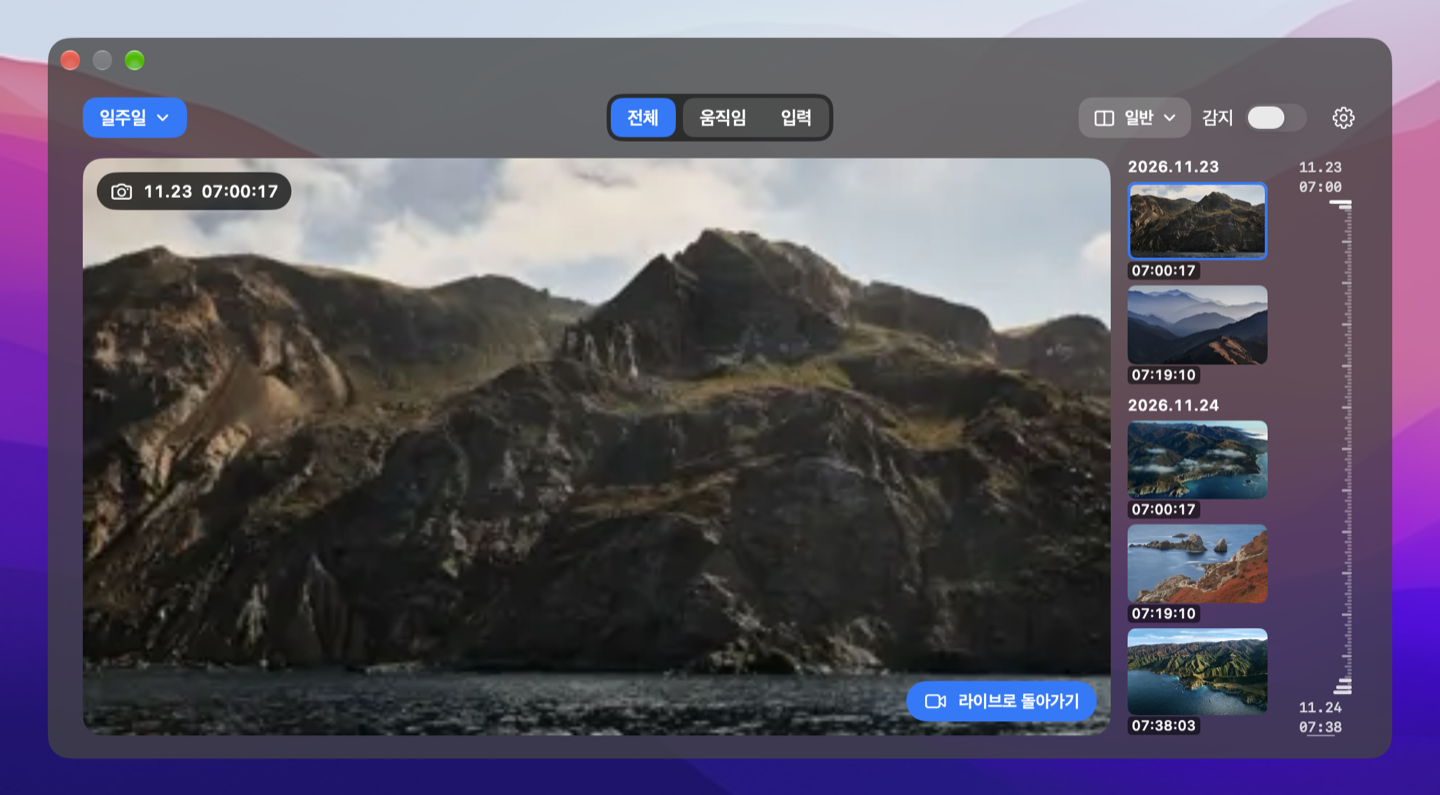
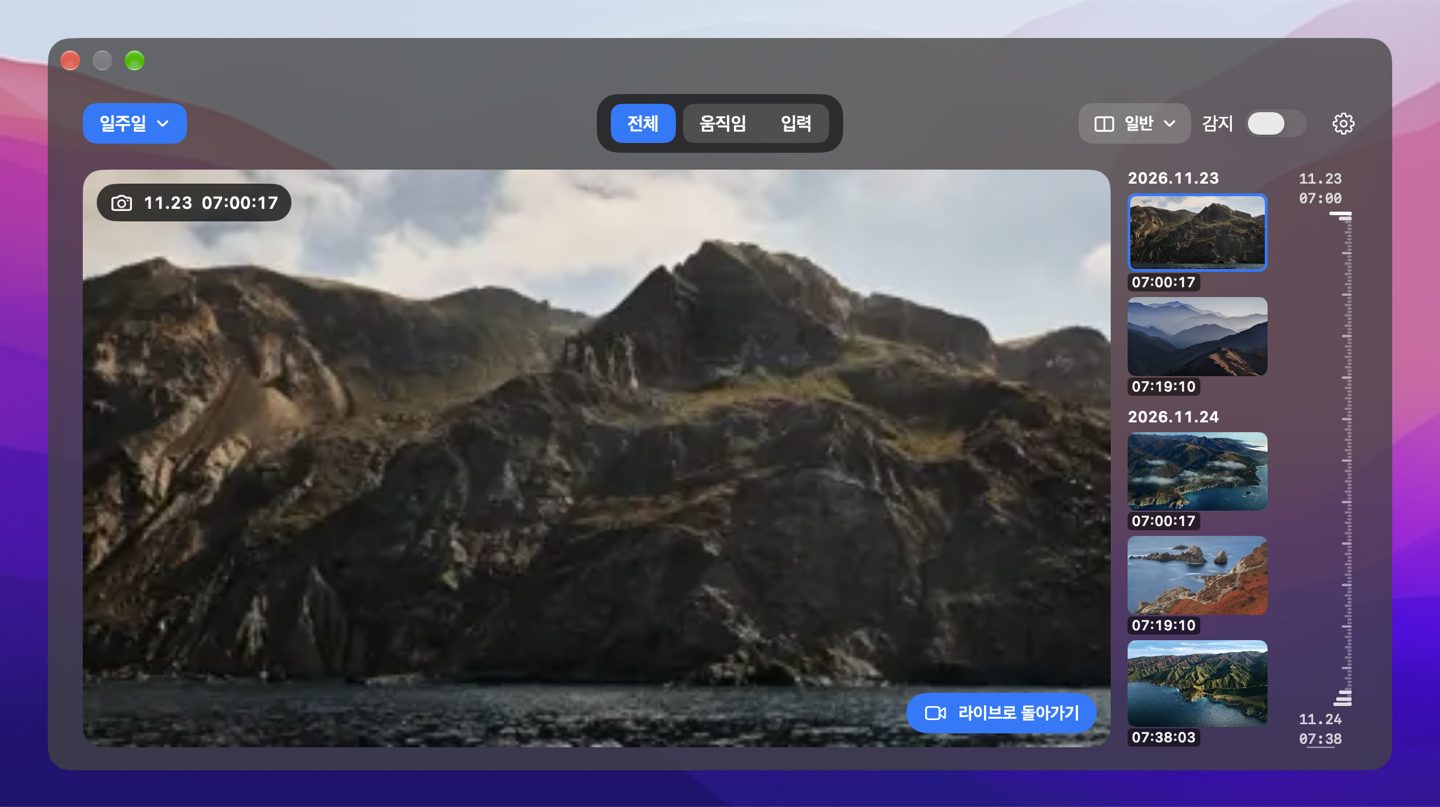
자리기록 0.3.5 상단 필터를 감싸는 여백 확대

diff --git a/Sources/ArchiveStyle.swift b/Sources/ArchiveStyle.swift
@@ -28,6 +28,9 @@ enum GalleryMode: String, CaseIterable {
 enum GalleryLayout {
     static let inset: CGFloat = 25
     static let gap: CGFloat = 12
+    static let filterButtonHeight: CGFloat = 28
+    static let filterVerticalInset: CGFloat = 7
+    static let filterHeight = filterButtonHeight + 2 * filterVerticalInset
     static let photoSize = CGSize(width: 132, height: 87)
     static func standardThumbnailWidth(in contentWidth: CGFloat) -> CGFloat {
         let fullWidth = max(165, (contentWidth - 74) * 0.36)
@@ -41,11 +44,11 @@ enum GalleryLayout {
     static func standardOpeningHeight(windowWidth: CGFloat) -> CGFloat {
         let contentWidth = windowWidth - inset * 2
         let viewerWidth = contentWidth - standardThumbnailWidth(in: contentWidth) - standardRulerWidth - gap * 2
-        return max(350, ceil(viewerWidth / defaultVideoAspect) + 8 + 34 + gap + standardBottomInset)
+        return max(350, ceil(viewerWidth / defaultVideoAspect) + 8 + filterHeight + gap + standardBottomInset)
     }
 
     static let rulerHeight: CGFloat = 31
     static let clockHeight: CGFloat = 13
-    // Header (8+34), two gaps, photo, ruler, clock spacing and bottom inset.
-    static let minimumHeight = 8 + 34 + gap * 2 + photoSize.height + rulerHeight + 3 + clockHeight + 12
+    // Header, two gaps, photo, ruler, clock spacing and bottom inset.
+    static let minimumHeight = 8 + filterHeight + gap * 2 + photoSize.height + rulerHeight + 3 + clockHeight + 12
 }

diff --git a/Sources/LibraryView.swift b/Sources/LibraryView.swift
@@ -72,7 +72,9 @@ struct LibraryView: View {
                         chip("입력", leading: 0, trailing: 8, selected: kind == .screen) { kind = .screen }
                     }
                 }
-                .padding(3).background(.black.opacity(0.56), in: RoundedRectangle(cornerRadius: 11))
+                .padding(.horizontal, 10)
+                .padding(.vertical, GalleryLayout.filterVerticalInset)
+                .background(.black.opacity(0.56), in: RoundedRectangle(cornerRadius: 15))
             }
             .padding(.horizontal, GalleryLayout.inset).padding(.top, 8).padding(.bottom, GalleryLayout.gap)
             if let notice = model.notice {
@@ -125,7 +127,7 @@ struct LibraryView: View {
     private func chip(_ title: String, leading: CGFloat, trailing: CGFloat, selected: Bool, action: @escaping () -> Void) -> some View {
         Button(action: action) {
             Text(title).font(.system(size: 13, weight: .semibold))
-                .fixedSize().padding(.horizontal, 12).frame(height: 28)
+                .fixedSize().padding(.horizontal, 12).frame(height: GalleryLayout.filterButtonHeight)
                 .background(selected ? GlassInk.blue : GlassInk.capsule, in: UnevenRoundedRectangle(
                     topLeadingRadius: leading, bottomLeadingRadius: leading,
                     bottomTrailingRadius: trailing, topTrailingRadius: trailing))

diff --git a/README.md b/README.md
@@ -4,7 +4,7 @@
 
 **macOS 14 이상 · Apple Silicon 및 Intel 지원**
 
-[자리기록 0.3.4 설치 파일 받기](https://github.com/sundaynighttt/desk-trace/releases/download/v0.3.4/DeskTrace-0.3.4.dmg) · [릴리스 기록](https://github.com/sundaynighttt/desk-trace/releases)
+[자리기록 0.3.5 설치 파일 받기](https://github.com/sundaynighttt/desk-trace/releases/download/v0.3.5/DeskTrace-0.3.5.dmg) · [릴리스 기록](https://github.com/sundaynighttt/desk-trace/releases)
 
 ![시험용 사진으로 본 일반 모드. 왼쪽에 선택한 사진이 크게 보이고 오른쪽에 촬영 시각이 표시된 목록과 세로 시간 눈금이 있습니다.](docs/gallery.png)
 
@@ -33,7 +33,7 @@
 
 일반 모드의 오른쪽 저장 사진은 같은 창에서 0.3.0 사진 폭의 1/3에 가장 가까운 짝수 포인트로 표시합니다. 사진 높이는 저장된 원본의 가로·세로 비율에 맞춥니다. 960포인트 창에서 폭은 100포인트이고, 16:9 사진의 높이는 약 56포인트, 정사각형 사진은 100포인트입니다. 날짜는 맥의 현지 날짜별 묶음 맨 위에 한 번 표시합니다. 각 사진 바로 아래에는 촬영 시각(시:분:초)만 한 줄로 두고, 같은 날의 기록 사이에는 4포인트 간격을 둡니다.
 
-가운데 필터는 더 어두운 배경 하나로 감쌉니다. 전체 버튼 옆에 움직임과 입력을 차례로 붙입니다. 움직임의 왼쪽 위·아래, 입력의 오른쪽 위·아래를 둥글게 하고 가운데 맞닿는 모서리는 직각으로 연결합니다. 미니 모드의 기본 창에는 약 7장의 사진이 보입니다. 상단 버튼과 사진, 사진과 물결 눈금 영역 사이의 간격은 각각 12포인트입니다. 사진 줄과 시간 눈금의 좌우 여백은 상단과 같은 25포인트입니다. 지난번 창을 높게 늘려 두었어도 다음 실행에서는 한 줄 높이로 시작하며, 연 뒤에는 크기를 조절할 수 있습니다. 기간 버튼 왼쪽과 설정 버튼 오른쪽에 같은 여백을 둡니다. 배경은 어두운 반투명이고, 선택한 필터는 파란색, 나머지는 반투명 회색입니다. 시스템에서 투명도 줄이기를 켜면 단색 배경을 사용하고, 동작 줄이기를 켜면 시간 눈금의 물결 높이를 고정합니다. 빈 목록, 필터 결과 없음, 한 장, 같은 시각의 여러 기록을 모두 지원합니다.
+가운데 필터의 어두운 배경에는 버튼 바깥으로 좌우 각각 10포인트, 위아래 각각 7포인트의 여백을 둡니다. 전체 버튼 옆에 움직임과 입력을 차례로 붙입니다. 움직임의 왼쪽 위·아래, 입력의 오른쪽 위·아래를 둥글게 하고 가운데 맞닿는 모서리는 직각으로 연결합니다. 미니 모드의 기본 창에는 약 7장의 사진이 보입니다. 상단 버튼과 사진, 사진과 물결 눈금 영역 사이의 간격은 각각 12포인트입니다. 사진 줄과 시간 눈금의 좌우 여백은 상단과 같은 25포인트입니다. 지난번 창을 높게 늘려 두었어도 다음 실행에서는 한 줄 높이로 시작하며, 연 뒤에는 크기를 조절할 수 있습니다. 기간 버튼 왼쪽과 설정 버튼 오른쪽에 같은 여백을 둡니다. 배경은 어두운 반투명이고, 선택한 필터는 파란색, 나머지는 반투명 회색입니다. 시스템에서 투명도 줄이기를 켜면 단색 배경을 사용하고, 동작 줄이기를 켜면 시간 눈금의 물결 높이를 고정합니다. 빈 목록, 필터 결과 없음, 한 장, 같은 시각의 여러 기록을 모두 지원합니다.
 
 </details>
 
@@ -61,6 +61,6 @@
 ./scripts/package.sh
 ```
 
-빌드 시 공식 libwebp 소스를 내려받아 고정된 SHA-256 값을 확인합니다. 완성된 앱에는 인코더가 포함됩니다. 설치하는 맥에는 위 개발 도구가 필요하지 않습니다. 기본 산출물은 `.build/자리기록.app`과 `.build/DeskTrace-0.3.4.dmg`입니다. Apple Silicon과 Intel용 코드를 함께 포함합니다. 위 명령은 로컬 시험용 서명을 사용합니다. 공개 배포용 DMG는 빌드 후 `DESKTRACE_SIGN_IDENTITY`에 Developer ID Application 인증서를, `DESKTRACE_NOTARY_PROFILE`에 Apple 공증용 키체인 프로필 이름을 지정하고 `./scripts/release.sh`를 실행하면 생성됩니다. 스크립트는 앱과 DMG에 서명하고 Apple 공증을 받은 뒤 공증 확인표를 첨부해 검증합니다.
+빌드 시 공식 libwebp 소스를 내려받아 고정된 SHA-256 값을 확인합니다. 완성된 앱에는 인코더가 포함됩니다. 설치하는 맥에는 위 개발 도구가 필요하지 않습니다. 기본 산출물은 `.build/자리기록.app`과 `.build/DeskTrace-0.3.5.dmg`입니다. Apple Silicon과 Intel용 코드를 함께 포함합니다. 위 명령은 로컬 시험용 서명을 사용합니다. 공개 배포용 DMG는 빌드 후 `DESKTRACE_SIGN_IDENTITY`에 Developer ID Application 인증서를, `DESKTRACE_NOTARY_PROFILE`에 Apple 공증용 키체인 프로필 이름을 지정하고 `./scripts/release.sh`를 실행하면 생성됩니다. 스크립트는 앱과 DMG에 서명하고 Apple 공증을 받은 뒤 공증 확인표를 첨부해 검증합니다.
 
 WebP 라이브러리의 저작권 및 특허 안내는 `Notices/`와 앱 번들의 Resources에 포함됩니다.
